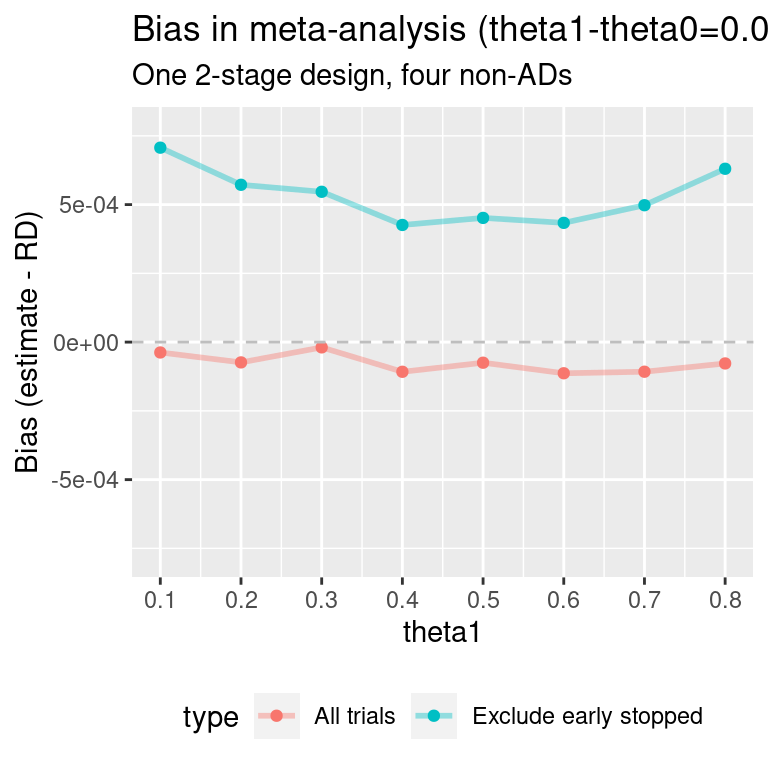
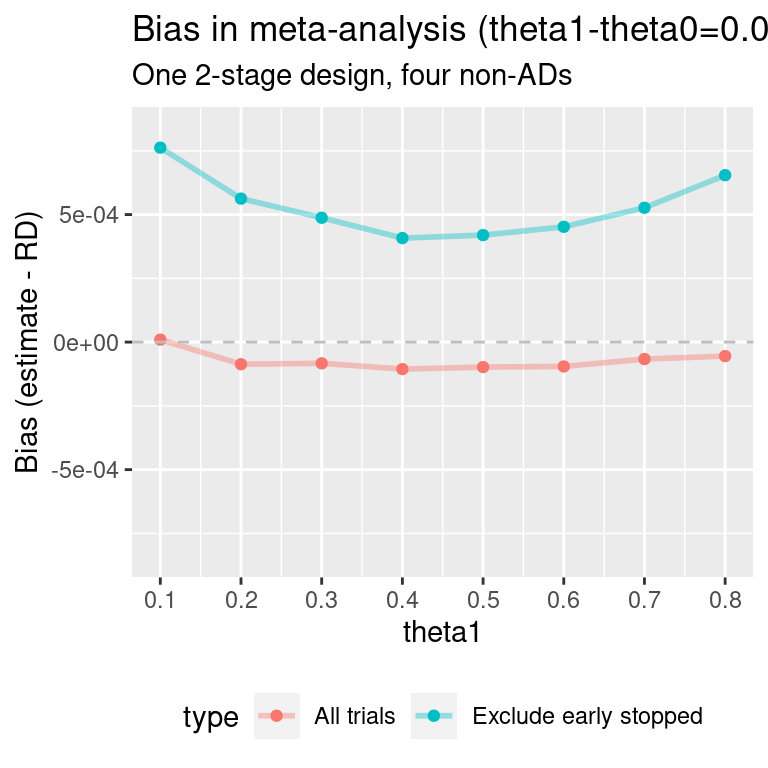
Deploying to gh-pages from @ martinlaw/pwb@6ab50f59e1cd9d79f57ddeb8a45673d4b17ce995 🚀

diff --git a/articles/MA_add_trial.html b/articles/MA_add_trial.html
@@ -175,7 +175,12 @@ small.</p>
 <span><span class="va">ave.prec.non.ad</span></span>
 <span><span class="co">#&gt; [1] 936.5774</span></span>
 <span><span class="co"># Fraction of Simon vs mean of non-adaptive:</span></span>
-<span><span class="va">prec.frac</span> <span class="op">&lt;-</span> <span class="va">prec.simon</span><span class="op">/</span><span class="va">ave.prec.non.ad</span></span></code></pre></div>
+<span><span class="va">prec.frac</span> <span class="op">&lt;-</span> <span class="va">prec.simon</span><span class="op">/</span><span class="va">ave.prec.non.ad</span></span>
+<span><span class="va">prec.frac</span></span>
+<span><span class="co">#&gt;           </span></span>
+<span><span class="co">#&gt; 0.6856127</span></span></code></pre></div>
+<p>For simulation study 1, average precision of Simon as a fraction of
+the non-adaptive studies is 0.69.</p>
 </div>
 <div class="section level3">
 <h3 id="trial-design-with-some-precision-weighted-bias">Trial design with some precision weighted bias<a class="anchor" aria-label="anchor" href="#trial-design-with-some-precision-weighted-bias"></a>
@@ -263,9 +268,16 @@ Simon design:</p>
 <span><span class="va">ave.prec.non.ad2</span></span>
 <span><span class="co">#&gt; [1] 1109.634</span></span>
 <span><span class="co"># Fraction of Simon vs mean of non-adaptive:</span></span>
-<span><span class="va">prec.frac2</span> <span class="op">&lt;-</span> <span class="va">prec.simon2</span><span class="op">/</span><span class="va">ave.prec.non.ad2</span></span></code></pre></div>
-<p>Average precision of Simon as a fraction of the non-adaptive studies
-is 0.69.</p>
+<span><span class="va">prec.frac2</span> <span class="op">&lt;-</span> <span class="va">prec.simon2</span><span class="op">/</span><span class="va">ave.prec.non.ad2</span></span>
+<span><span class="va">prec.frac2</span></span>
+<span><span class="co">#&gt;           </span></span>
+<span><span class="co">#&gt; 0.4468794</span></span></code></pre></div>
+<p>For simulation study 2, average precision of Simon as a fraction of
+the non-adaptive studies is 0.45.</p>
+</div>
+<div class="section level3">
+<h3 id="summary-of-biases-and-mcses">Summary of biases and MCSEs<a class="anchor" aria-label="anchor" href="#summary-of-biases-and-mcses"></a>
+</h3>
 <div class="sourceCode" id="cb13"><pre class="downlit sourceCode r">
 <code class="sourceCode R"><span><span class="va">simon.unwtd.bias</span> <span class="op">&lt;-</span> <span class="fu"><a href="https://rdrr.io/r/base/c.html" class="external-link">c</a></span><span class="op">(</span><span class="va">single.simon</span><span class="op">$</span><span class="va">ests</span><span class="op">[</span><span class="st">"All"</span>, <span class="st">"bias"</span><span class="op">]</span>, <span class="va">single.simon2</span><span class="op">$</span><span class="va">ests</span><span class="op">[</span><span class="st">"All"</span>, <span class="st">"bias"</span><span class="op">]</span><span class="op">)</span></span>
 <span><span class="va">simon.pw.bias</span> <span class="op">&lt;-</span> <span class="fu"><a href="https://rdrr.io/r/base/c.html" class="external-link">c</a></span><span class="op">(</span><span class="va">single.simon</span><span class="op">$</span><span class="va">ests</span><span class="op">[</span><span class="st">"All (precision-weighted)"</span>, <span class="st">"bias"</span><span class="op">]</span>, <span class="va">single.simon2</span><span class="op">$</span><span class="va">ests</span><span class="op">[</span><span class="st">"All (precision-weighted)"</span>, <span class="st">"bias"</span><span class="op">]</span><span class="op">)</span></span>
@@ -283,13 +295,92 @@ is 0.69.</p>
 <span>                      <span class="va">ma.bias.inc</span>,</span>
 <span>                      <span class="va">ma.mcse.ex</span>,</span>
 <span>                      <span class="va">ma.mcse.inc</span><span class="op">)</span></span>
-<span><span class="fu"><a href="https://rdrr.io/r/base/Round.html" class="external-link">round</a></span><span class="op">(</span><span class="va">results</span><span class="op">*</span><span class="fl">1e5</span>, <span class="fl">1</span><span class="op">)</span></span>
-<span><span class="co">#&gt;   simon.unwtd.bias simon.mcse simon.pw.bias ma.bias.ex ma.bias.inc ma.mcse.ex</span></span>
-<span><span class="co">#&gt; 1           -949.6       12.5           0.5        2.8       -16.9        5.2</span></span>
-<span><span class="co">#&gt; 2             13.7       14.2        -389.9     -136.4      -161.8        4.8</span></span>
-<span><span class="co">#&gt;   ma.mcse.inc</span></span>
-<span><span class="co">#&gt; 1         4.8</span></span>
-<span><span class="co">#&gt; 2         4.6</span></span></code></pre></div>
+<span><span class="va">tab</span> <span class="op">&lt;-</span> <span class="fu">xtable</span><span class="fu">::</span><span class="fu"><a href="https://rdrr.io/pkg/xtable/man/xtable.html" class="external-link">xtable</a></span><span class="op">(</span>x<span class="op">=</span><span class="va">results</span><span class="op">*</span><span class="fl">1e5</span>, digits<span class="op">=</span><span class="fl">1</span>, align<span class="op">=</span><span class="st">"rrrrrrrr"</span>, caption<span class="op">=</span><span class="st">"Summary of results *1e5"</span><span class="op">)</span></span>
+<span><span class="fu"><a href="https://rdrr.io/r/base/print.html" class="external-link">print</a></span><span class="op">(</span><span class="va">tab</span>, type<span class="op">=</span><span class="st">"html"</span><span class="op">)</span></span></code></pre></div>
+<!-- html table generated in R 4.2.2 by xtable 1.8-4 package -->
+<!-- Thu Feb  2 18:11:58 2023 -->
+<table border="1" class="table">
+<caption align="bottom">
+Summary of results *1e5
+</caption>
+<tr>
+<th>
+</th>
+<th>
+simon.unwtd.bias
+</th>
+<th>
+simon.mcse
+</th>
+<th>
+simon.pw.bias
+</th>
+<th>
+ma.bias.ex
+</th>
+<th>
+ma.bias.inc
+</th>
+<th>
+ma.mcse.ex
+</th>
+<th>
+ma.mcse.inc
+</th>
+</tr>
+<tr>
+<td align="right">
+1
+</td>
+<td align="right">
+-949.6
+</td>
+<td align="right">
+12.5
+</td>
+<td align="right">
+0.5
+</td>
+<td align="right">
+2.8
+</td>
+<td align="right">
+-16.9
+</td>
+<td align="right">
+5.2
+</td>
+<td align="right">
+4.8
+</td>
+</tr>
+<tr>
+<td align="right">
+2
+</td>
+<td align="right">
+13.7
+</td>
+<td align="right">
+14.2
+</td>
+<td align="right">
+-389.9
+</td>
+<td align="right">
+-136.4
+</td>
+<td align="right">
+-161.8
+</td>
+<td align="right">
+4.8
+</td>
+<td align="right">
+4.6
+</td>
+</tr>
+</table>
 </div>
   </main><aside class="col-md-3"><nav id="toc"><h2>On this page</h2>
     </nav></aside>

diff --git a/articles/GS.html b/articles/GS.html
@@ -95,10 +95,10 @@ futility:</p>
 <span>                     nsims<span class="op">=</span><span class="va">nsims</span><span class="op">)</span></span>
 <span>  <span class="va">single.GS</span><span class="op">$</span><span class="va">ests</span><span class="op">[</span>, <span class="fl">1</span><span class="op">:</span><span class="fl">5</span><span class="op">]</span></span>
 <span><span class="co">#&gt;                          nsims    bias mean.SE emp.SE theta</span></span>
-<span><span class="co">#&gt; Stopped early            39488 -0.0450  0.0455 0.0270   0.5</span></span>
-<span><span class="co">#&gt; Complete                 60512  0.0248  0.0421 0.0300   0.5</span></span>
+<span><span class="co">#&gt; Stopped early            39377 -0.0452  0.0455 0.0273   0.5</span></span>
+<span><span class="co">#&gt; Complete                 60623  0.0246  0.0421 0.0300   0.5</span></span>
 <span><span class="co">#&gt; All                     100000 -0.0028  0.0435 0.0447   0.5</span></span>
-<span><span class="co">#&gt; All (precision-weghted) 100000 -0.0001  0.0433     NA   0.5</span></span>
+<span><span class="co">#&gt; All (precision-weghted) 100000 -0.0002  0.0433     NA   0.5</span></span>
 <span>  <span class="fu"><a href="https://rdrr.io/r/base/Round.html" class="external-link">round</a></span><span class="op">(</span><span class="va">single.GS</span><span class="op">$</span><span class="va">mc.error</span>, <span class="fl">5</span><span class="op">)</span></span>
 <span><span class="co">#&gt; [1] 0.00014 0.00010</span></span></code></pre></div>
 <p>How does bias compare when the true response probability is varied?

diff --git a/articles/Non-adaptive_designs.html b/articles/Non-adaptive_designs.html
@@ -112,7 +112,7 @@ the unadjusted and precision weighted bias:</p>
 <span></span>
 <span><span class="va">se.df</span> <span class="op">&lt;-</span> <span class="fu"><a href="https://rdrr.io/r/base/data.frame.html" class="external-link">data.frame</a></span><span class="op">(</span>se<span class="op">=</span><span class="fu"><a href="https://rdrr.io/r/base/unlist.html" class="external-link">unlist</a></span><span class="op">(</span><span class="va">se.list</span><span class="op">)</span>,</span>
 <span>                    theta<span class="op">=</span><span class="fu"><a href="https://rdrr.io/r/base/rep.html" class="external-link">rep</a></span><span class="op">(</span><span class="fu"><a href="https://rdrr.io/r/base/character.html" class="external-link">as.character</a></span><span class="op">(</span><span class="va">theta.vec</span><span class="op">)</span>, each<span class="op">=</span><span class="va">nsims</span><span class="op">)</span><span class="op">)</span></span></code></pre></div>
-<pre><code><span><span class="co">#&gt; Warning: Removed 1 row containing missing values (`geom_line()`).</span></span></code></pre>
+<pre><code><span><span class="co">#&gt; Warning: Removed 2 rows containing missing values (`geom_line()`).</span></span></code></pre>
 <p><img src="figures/non-AD_bias_N=100-1.png" width="480"></p>
 <p>This effect decreases as <em>N</em> increases. For example, when
 <em>N=1000</em>:</p>
